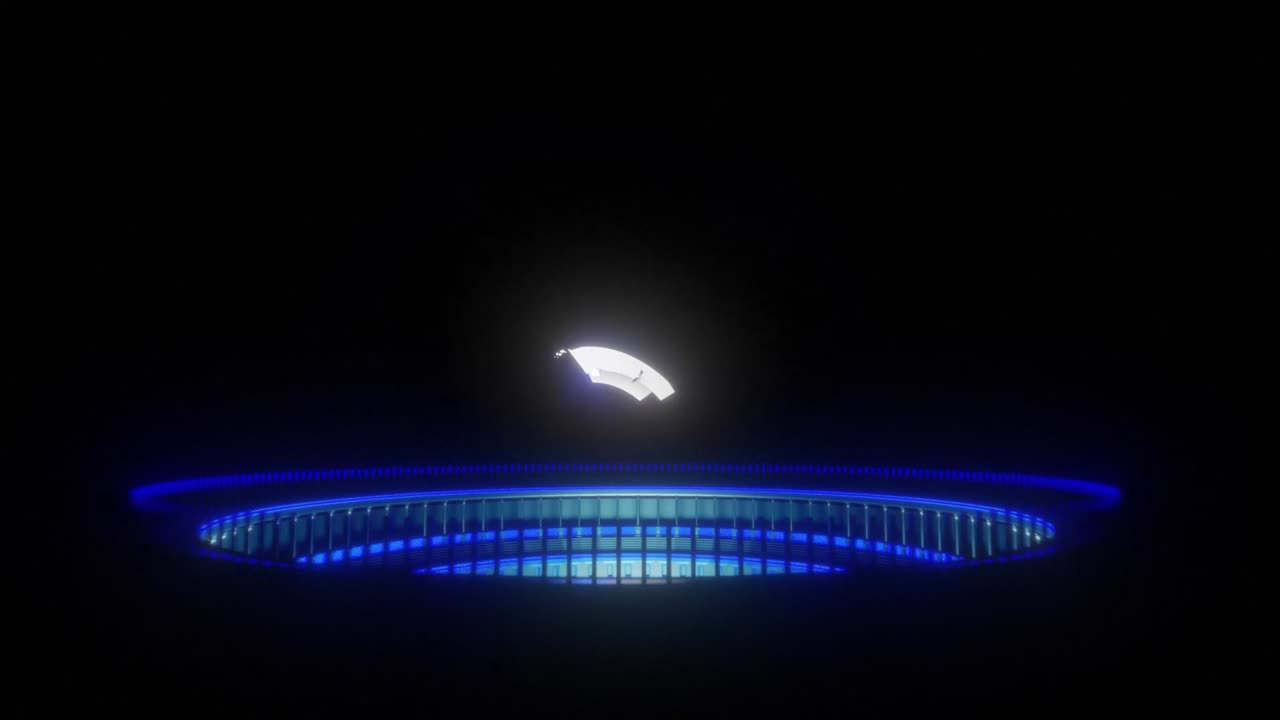
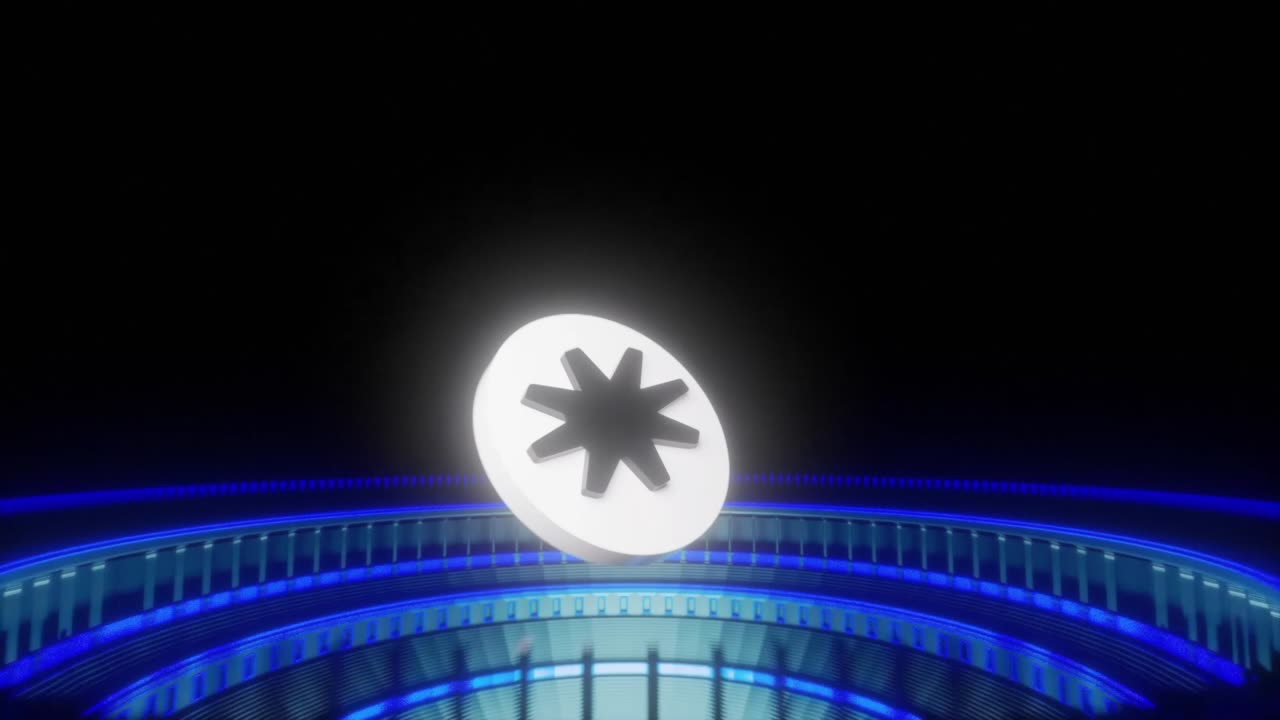
Hold the reel loop until the star has drawn; brighter poster
On slow connections the loop queued ahead of the star model. It now waits
for the scene to be ready (and skips save-data visitors) before loading.
The poster is the lit badge frame at 0:10.8 instead of a dark one.

Claude-Session: https://claude.ai/code/session_01MkVTZ1j5hHcfjdr2Sxd3eH

diff --git a/src/components/Showreel.tsx b/src/components/Showreel.tsx
@@ -6,7 +6,7 @@ import { ScrollTrigger } from "gsap/ScrollTrigger";
 import { useEffect, useRef, useState, useSyncExternalStore } from "react";
 import { showreel, site } from "@/content/site";
 import { getLite, subscribeLite } from "@/lib/lite";
-import { getReducedMotion, setScenePaused, setStory } from "@/lib/story";
+import { getReducedMotion, getSceneReady, setScenePaused, setStory, subscribeEntry } from "@/lib/story";
 
 gsap.registerPlugin(ScrollTrigger);
 
@@ -36,6 +36,13 @@ export default function Showreel() {
   const [near, setNear] = useState(false);
   const lite = useSyncExternalStore(subscribeLite, getLite, () => true);
   const loop = near && !lite && !getReducedMotion();
+  const video = useRef<HTMLVideoElement>(null);
+  useEffect(() => {
+    const v = video.current;
+    if (!loop || !v) return;
+    v.load();
+    v.play().catch(() => {});
+  }, [loop]);
 
   // The 3D pauses while the reel plays on screen.
   useEffect(() => {
@@ -57,12 +64,23 @@ export default function Showreel() {
         setInView(self.isActive);
       },
     });
+    let stopWaiting: (() => void) | undefined;
     const approach = ScrollTrigger.create({
       trigger: el,
       start: "top bottom+=400",
       once: true,
-      // Waits for an idle moment so it never competes with the first paint or Book.
-      onEnter: () => (window.requestIdleCallback ?? setTimeout)(() => setNear(true), { timeout: 2500 }),
+      onEnter: () => {
+        if ((navigator as Navigator & { connection?: { saveData?: boolean } }).connection?.saveData) return;
+        // Waits until the star has drawn, so on a slow connection the loop
+        // never queues ahead of the 3D, then for an idle moment.
+        const start = () => (window.requestIdleCallback ?? setTimeout)(() => setNear(true), { timeout: 2500 });
+        if (getSceneReady()) return start();
+        stopWaiting = subscribeEntry(() => {
+          if (!getSceneReady()) return;
+          stopWaiting?.();
+          start();
+        });
+      },
     });
     // The frame zooms out to full size as it scrolls in, through a soft oval
     // mask that opens up, while the poster inside settles from a closer crop.
@@ -80,6 +98,7 @@ export default function Showreel() {
     return () => {
       stage.kill();
       approach.kill();
+      stopWaiting?.();
       opens?.scrollTrigger?.kill();
       opens?.kill();
       setStory({ stage: false });
@@ -109,7 +128,7 @@ export default function Showreel() {
             <span className="reel-fallback" aria-hidden="true">
               <span>Showreel</span>
             </span>
-            <video key={loop ? "loop" : "poster"} className="reel-loop" poster="/reel/poster.jpg" muted loop playsInline autoPlay preload="none" aria-hidden="true">
+            <video ref={video} className="reel-loop" poster="/reel/poster.jpg" muted loop playsInline autoPlay preload="none" aria-hidden="true">
               {loop && <source src="/reel/loop.webm" type="video/webm" />}
               {loop && <source src="/reel/loop.mp4" type="video/mp4" />}
             </video>
